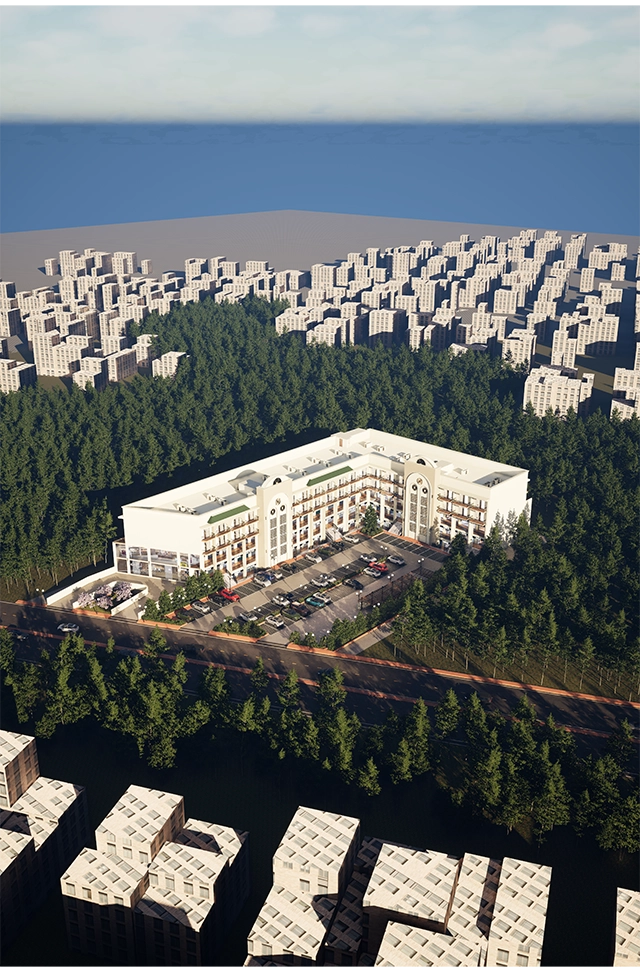
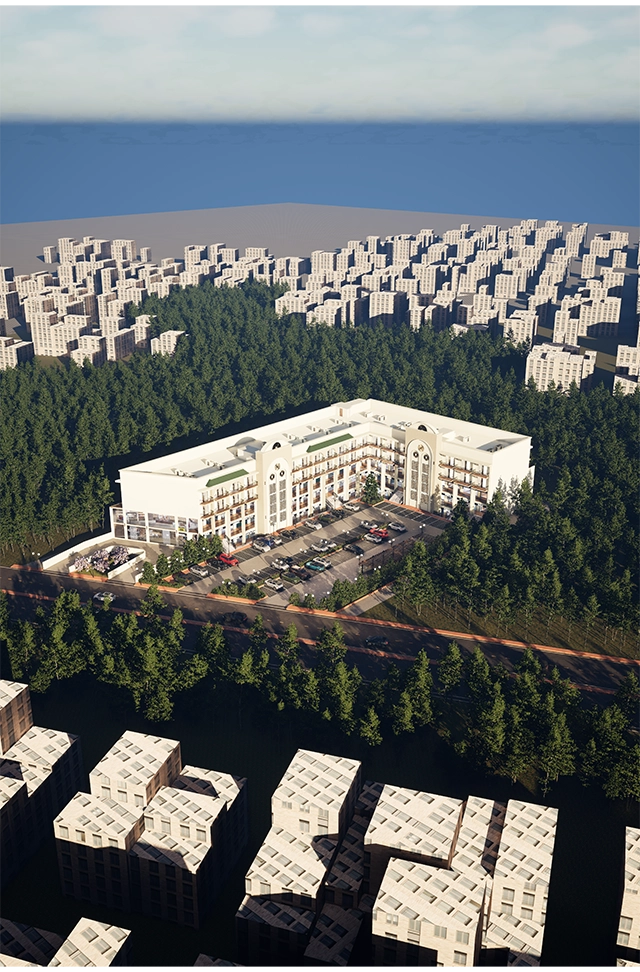
.

diff --git a/index.html b/index.html
@@ -613,10 +613,10 @@
                 <svg xmlns="http://www.w3.org/2000/svg" xml:space="preserve" viewBox="0 0 3840 5830">
                     <path id="Tower_B" data-link="Tower_B.html" data-name="Tower_B"
                         data-img="images/Thumbnail/Tower_B.jpg"
-                        d="m3192.22 2986.46-4.04 47.99-10.65 126.37v.67l-2.67-3.67s-1-4.25-1.25-5-3.58-2.5-3.58-2.5l-1.17-8.67-5.69-2.03s-.78-2.77-.78-3.77-2.45-4.89-3.56-8.11c-1.11-3.23-3.33-2.56-4.11-3.12-.78-.55-2-4.11-2.11-5.11s1-3.33 1.67-5.44c.66-2.11 3.78-4.33 3.78-4.33s-4.34-4.34-5.34-5.89c-.49-.77-.64-.94-.66-.97.01.01.04.01 0-.14-.12-.45-1.12-2-.89-3 .22-1-.67-5.67-.67-5.67l-1.33-3.11 2-7-5.11-1s-4.78 2.89-5.45 1.44c-.67-1.44-1.67-1.78-1.67-1.78l.78-3.66 4.67-9.34-4.45-2.77-2.55-4.89-3.67 6.66s-1.66 2.45-2 2.89c-.33.45-1.55 5.34-1.55 5.34s-1.23-.78-1.78-1.11c-.56-.34-2.33.33-2.33.33l-2.45 5-4.11 3.55-4.78 3-.11 7.45 3.22 6.11-3.11 5.78-4 1.22 3 5.67-1.11 2.22s-4 4.78-4.33 5.55c-.34.78 6.66.12 7.44 0l-1.55 6-5.67 2.78-1.67 7.22-9 3.34h-1.77s-7.67-3.11-8-3.11-7-1.11-7-1.11l-2.67 4.55 10.67 1.89-1.78 8.56-.67 6.55 8.45 2.78 8.77 5.11-2.44 6.22s-2.45-.11-2.78-.11-5.55 1.33-5.55 1.33l-5.89 2.89-7.89-3.66-4.22 4.66-5.12 2.67-21.55 17.89s3.11.11 4.89.11 8.33 3.67 8.33 3.67 10.45 3.89 12.11 4.11c1.67.22 8.56 1.66 11 1.66s6.11 1.89 6.11 1.89l10.56 10.56.78 7.33-1.78 3.89-2.89.78s-3.33-1.56-3.89-2.78c-.55-1.22.33-3 .67-3.55.33-.56-1.89-5.23-1.89-5.23l-2.45.78-.11-3.67s-2.22-3.11-2.55-3.11-4.11-.44-4.11-.44l-1 4.33s-3.34 5.11-3.56 5.45c-.22.33-.89 7.44-.89 7.44s2.56 2.45 4.11 2.45 5.45.88 5.89 1c.45.11 6.11 3.44 6.45 3.44s8.55 1.22 8.55 1.22l2.45 5.89-5 3.67s-5.89-2.67-8.56-4.34c-2.67-1.66-2.55.78-2.55.78l-2.23 2.78s-2.44 2.56-2.89 2.78c-.44.22 0 4.66 0 5.44s-2.22 5.22-2.22 5.22l-8.44 6.34-43.34 22.72s-1.5-.5-3-1.83c-1.5-1.34-4.83 2.16-5.33 2.5-.5.33-1.17 7.83-1.17 7.83s-4.66-2.17-8.33-4.33c-3.67-2.17 0-4.5 0-4.5l1.83-3.84s-1.33-5.33-4.5-6.66c-3.16-1.34-1.83-1.17-5.5-4-3.66-2.84-1-3.34-1-3.34s3.5-.33 6.17-.83 1.83-4.83 1.83-5.5-3.5-1.83-3.5-1.83-1.5-2-1.16-4.67c.33-2.67.33-1.83 1-2.5.66-.67 6.83-.33 7.83-.67 1-.33 2.33-7.33 2.33-7.33l-4-4s-.5-1-.66-1.5c-.17-.5-4.84-2.67-6.17-4s-4.5.83-5.83 1.5c-1.34.67-2.34 2-3.67 3.17-1.33 1.16-2.59 3-2.59 3s-4.08-.17-4.74-.34c-.67-.16-1.84-.66-1.84-.66s-3.66-4.34-2.66-5.34-.5-.83-.5-.83l.33-2s.33-2.5.67-3c.33-.5 2.5-2.67 2.83-4s-1.17-3.67-1.17-6.33 1-2.84 1.34-4.17c.33-1.33 1-3 1.33-3.83.33-.84.83-2.84.83-2.84l1.17-5.83.33-6.67s.34-2.16.34-3.33v-8.5c0-1.67.16-1.5.16-2.83s.67-5.84 1-7c.34-1.17 0-1 .34-2.17.33-1.17 0-3 .16-4.17.17-1.16 0-2.33 0-4.33s-5.16-6.17-7.16-7.67-1.67-.16-2.5-.83c-.84-.67.16-2 .16-3.33s.84-7.34.84-10.67-3.34-9-3.34-9-1.5 4.83-1.66 6.33c-.17 1.5-2.17 8-2.17 8l-1.67 3.67-.83 3.17-3.17 2.66-3 .84s-3.33 2.83-4.33 3.5c-1 .66-2.33 2.16-3.67 3.16-1.33 1-4.83 2-5.33 2.5s1.5.17 1.5.17l2.17 1.83s.83 4.5.83 5.17-3.33 3-4.17 3.5c-.83.5-1.5 1.83-2.5 3.67-1 1.83-2.16 4.5-2.5 5.83-.33 1.33 0 2 0 2l.17 3.83 1 6.34v3.66l-1.17 1.5-1 4.17-5.66 3.67-1 2.33-1.34 4.83-3.83-.5-2.5-4v-3.83l-5.17-.33s-5-4.34-5.66-4.34 0 2.84 0 2.84l1 6.5v7l-9.89 5.94s-4-3.55-5.11-3.78c-1.11-.22-5.56 6.67-5.56 6.67l-.22 3.78 3.11 9.11s-2 .22-3.11.22-3.11 5.56-3.11 5.56l6.22 2v4l-6.44 2v7.55h-.67c-.67 0-4.67.67-5.11.89-.45.22-3.56 6.22-3.56 6.22l3.56 1.56s-2.22 2.67-3.33 4c-1.12 1.33.22 1.55 0 2.67-.23 1.11-1.56.88-1.56.88l-3.56-1.11-2.88 4-3.12 1.56 1.78 2.89v4.66l-3.55-1.11-3.07 2.45-2.04 1.33s1.55 4.22 2 5.33c.44 1.12-2.28.67-2.28.67l-1.28 3.33s0 1.34.89 1.78c.89.45 0 2.22 0 2.22l-1.56.89s-2.22 2.67-2.22 3.34.89.89 1.11 2-3.33 1.55-4.66 1.77c-1.34.23-3.56.23-3.56.23l-1.56 1.33s-1.33 2.44-2 3.33c-.66.89-4.66 1.56-4.66 1.56l-4 3.11h-4.89l-2-1.11s-1.56-1.56-2-3.11c-.45-1.56-1.33-3.56-1.33-6s-3.56-6.89-4-9.34c-.45-2.44-6.45-5.11-8.23-5.11s-5.55 2.67-6.66 3.56-6.45 9.78-6.45 9.78l-4.22 2.66-4.22-.44s-6.45-3.33-6.89-5.11c-.45-1.78.67-7.34.67-7.34l4-3.77s.66-6.23 0-6.89c-.67-.67-8.23.89-8.23.89l-4.22-7.56-1.33-2.22 1.11-8.89-2-.67.67-6.89 2.66-3.77s-3.33-4.67-3.78-6.45c-.44-1.78 2.89-2.44 2.89-2.44l6-4.22s-7.11-3.34-7.77-3.34-7.34-1.55-7.34-1.55-.44-4.67 0-5.34c.45-.66 2.45-2.44 2.45-2.44s1.55-3.78 2.22-4.67 2.89 0 2.89 0l3.11-2.89 2.22-7.11-4.67-1.78-3.33-2.44-5.55-3.56 2.44-3.33 6.44-3.11-4.22-5.78-2.66 1.78s-2-.67-2.89-.67-4.89-2.22-7.34-3.11c-2.44-.89-2.66-.44-3.33-.44s-1.56-.45-1.56-.45l-3.6-3.55s-1.28-2-1.28-3.11 0-5.78.88-7.34c.89-1.55 0-3.77 0-3.77l-7.33-5.78-4.44 4.89s-1.78 4.66-1.56 5.33 0 1.11 0 3.33-1.33 5.34-1.33 5.34l-2.45 5.55-8-2-2.66 1.56v5.11l-1.78 1.78-7.11-2-2.89 2.89s6 3.33 7.33 3.33h3.56l2 6.89-2.67 3.78s-6.22-1.78-7.33-2.23c-1.11-.44-7.11-.66-8.31-.66s-1.91-.23-3.47-.23-3.78 2-3.78 2l-.44 5.56s.22 8.44.44 11.11.67 5.33.67 6v14c0 2 0 5.33-.22 7.11-.23 1.78-7.11 4.56-7.11 4.89s2.22 7.22 2.22 7.22.66 5.11 2 6.34c1.33 1.22 9.33 4.77 9.66 5 .34.22-3.22 2.77-3.22 2.77l-2.89.45-6.22-5.67-5 1.89-4.67.78-1.33 3.89-.78 2.55-1.55 4.34-1.22 2.22 1.22 6.89v4l-110.42-42.39 2.5-5.67-11.75-4.33-.67 1-6.16-.25v-5l-11.75-4.08v-1.84l-45.42-15.83-7.75-1.75-2.75-.83-7.33-1.34v-2.16l-40.59-14.59-5.41.17-14.17-5.08-.75 1.25-2 1.41-4.75-.91v-2.5l-14-5.42-9.42 5.17-9.08-1.84-71.39-26.5s-16.33-6.26-21.42-8.4l1.42-4.26-2.55-.67-2.45.33s-1.55-1-1.78-1.44c-.22-.45-2.22-2.78-2.22-2.78s-2.44-2.22-3.66-2.78c-1.23-.55-4.45-2.11-4.45-2.11s-2.22-1-2.89-.89c-.66.11-2.33.22-2.33.22l-2.22.89-13.11-4-2.23-1.55.11-1.45 2.62-2.39s3.5-3.16 3.5-3.33-.23-3.11-.23-3.11-.89-.44-1.05-.67c-.17-.22-1.22-1.83-1.39-2.5-.17-.66-2.72-3.77-2.72-3.77l2.58-2.59s-1.5-1.91-2.58-2.41c-1.09-.5-1.59-.17-1.59-.17l-.5-.67v-1.33c0-.33.25-1.42.25-1.42l.5-.58c.5-.58 1.5-1.25 2.42-2s.5-.67.67-1.92c.16-1.25-.25-1.41-.34-1.91-.08-.5-.91-.59-1.83-1.17s-1.58-.67-1.83-.83c-.25-.17-1.42-1.5-1.42-2.92s0-.92.17-1.5c.16-.58.33-3.25.66-3.67 0 0 1.34-.5 2.59-1.33s1.91-.58 2.83-1.17c.92-.58 1.5-.75 2.17-1.08.66-.33 1.33-1.17 1.33-1.17v-.91c0-.92-.75-1.59-1.33-2.42-.59-.83-1.59-.92-2.34-1.75s-1.33-2.17-1.41-2.5c-.09-.33-4.67-4.25-4.67-4.25l-.25-.5s.08-1 .5-1.75.42-.58.67-.92c.25-.33.75-1 1.08-1.41.33-.42.42-.5.75-1.42s0-1.25 0-2-.17-1.5-.33-3.92c-.17-2.41-.92-2-1.09-2.58-.16-.58-2.5-1.42-3.66-1.92-1.17-.5-.84 0-1.17 0s-2.17 1-3.67 1.59c-1.5.58-1.91.58-2.66.58s-2.84.08-4-.08c-1.17-.17 0-1.09.08-1.67s2.83-4.42 3.08-4.58c.25-.17 1.75-.84 2.5-1.25.75-.42 2-.67 3.42-1.67s1.5-2 1.92-3.17c.41-1.16.58-2.83.58-3.16s-.83-.67-1.25-1c-.42-.34-1.25-.17-1.25-.17l-1.25-.17s-.92-1.08-2.08-2.91c-1.17-1.84-1.17-.67-1.17-.67s-1.5 1.42-1.83 1.58c-.34.17-2.09.5-2.59.5s-1.5-1-1.5-1 .09-.83.09-1.16.33-2 .91-3.67c.59-1.67.34-1.08.59-1.42.25-.33.66-.66.66-.66s1.75-.25 2.42-.67l.67-.42s-.75-2.25-.84-2.58c-.08-.33-.41-.42-1.16-.92s-1.17-.75-1.42-.91c-.25-.17-.92-.92-1.08-1.25-.17-.34-.34-.92-.84-2.17s.25-.33 0-.75-1.16-1.25-1.16-1.25l-1.09-.83-2.08-.25s-1.08-.5-1.42-.75c-.33-.25-1.75 1.16-2.33 1.5-.58.33-1.83.66-2.58.66s-.42-.25-.59-.83c-.16-.58 0 0-.83-3.5s.08-1.58.08-1.58 1.92-1.67 2.34-2.17c.41-.5 0-.58.58-2s.58-.42 1.92-1.67c1.33-1.25-1.84-2.75-2.25-2.75s-1.09.5-1.5.67c-.42.17-2.42 1.25-3.17 1.75s-2.17-.08-2.17-.08h-1.25s0-1.17.09-1.75c.08-.59.66-1.5.66-1.5s.34-.92 1.25-2.5c.92-1.59 1.09-2.09 1.09-2.59s-2-1.83-2.34-2c-.33-.16-1.83.17-1.83.17l-1.17-1.83v-5l-4 .66-.66 4s-1.84 3-2 3.42c-.17.42-1.59 2.42-1.59 2.42l-2.33.75-1.17-1-3.58-.42-.92 2.75-.64 2.56 2.23-98.81 8.33-367.96.36-.12 955.11 253-.22 5.11-4.22 2.77-2.78 22.78h14.44l-1.66 31.45-15.34 6.66-2.55 39.56h6.44l-.33 23-9 4.44-3 43.78 31.67-16.33z" />
+                        d="m3209.21 2788.05-9.13 177.36v.67l-2.72-3.67s-1.02-4.25-1.27-5-3.64-2.5-3.64-2.5l-1.19-8.67-5.79-2.03s-.79-2.77-.79-3.77-2.49-4.89-3.62-8.11c-1.13-3.23-3.39-2.56-4.18-3.12-.79-.55-2.04-4.11-2.15-5.11s1.02-3.33 1.7-5.44c.67-2.11 3.85-4.33 3.85-4.33s-4.42-4.34-5.43-5.89c-.5-.77-.65-.94-.67-.97.01.01.04.01 0-.14-.12-.45-1.14-2-.91-3 .22-1-.68-5.67-.68-5.67l-1.35-3.11 2.04-7-5.2-1s-4.86 2.89-5.55 1.44c-.68-1.44-1.7-1.78-1.7-1.78l.79-3.66 4.75-9.34-4.53-2.77-2.59-4.89-3.73 6.66s-1.69 2.45-2.04 2.89c-.34.45-1.58 5.34-1.58 5.34s-1.25-.78-1.81-1.11c-.57-.34-2.37.33-2.37.33l-2.49 5-4.18 3.55-4.86 3-.11 7.45 3.28 6.11-3.16 5.78-4.07 1.22 3.05 5.67-1.13 2.22s-4.07 4.78-4.41 5.55c-.35.78 6.78.12 7.57 0l-1.58 6-5.77 2.78-1.7 7.22-9.16 3.34h-1.8s-7.8-3.11-8.14-3.11-7.12-1.11-7.12-1.11l-2.72 4.55 10.86 1.89-1.81 8.56-.68 6.55 8.6 2.78 8.92 5.11-2.48 6.22s-2.49-.11-2.83-.11-5.65 1.33-5.65 1.33l-5.99 2.89-8.03-3.66-4.29 4.66-5.21 2.67-21.93 17.89s3.16.11 4.98.11 8.48 3.67 8.48 3.67 10.63 3.89 12.32 4.11c1.7.22 8.71 1.66 11.19 1.66s6.22 1.89 6.22 1.89l10.75 10.56.79 7.33-1.81 3.89-2.94.78s-3.39-1.56-3.96-2.78c-.56-1.22.34-3 .68-3.55.34-.56-1.92-5.23-1.92-5.23l-2.49.78-.11-3.67s-2.26-3.11-2.59-3.11-4.18-.44-4.18-.44l-1.02 4.33s-3.4 5.11-3.62 5.45c-.22.33-.91 7.44-.91 7.44s2.61 2.45 4.18 2.45 5.55.88 5.99 1c.46.11 6.22 3.44 6.56 3.44s8.7 1.22 8.7 1.22l2.49 5.89-5.09 3.67s-5.99-2.67-8.71-4.34c-2.72-1.66-2.59.78-2.59.78l-2.27 2.78s-2.48 2.56-2.94 2.78c-.45.22 0 4.66 0 5.44s-2.26 5.22-2.26 5.22l-8.59 6.34-44.1 22.72s-1.53-.5-3.05-1.83c-1.53-1.34-4.92 2.16-5.42 2.5-.51.33-1.19 7.83-1.19 7.83s-4.74-2.17-8.48-4.33c-3.73-2.17 0-4.5 0-4.5l1.86-3.84s-1.35-5.33-4.58-6.66c-3.22-1.34-1.86-1.17-5.6-4-3.72-2.84-1.02-3.34-1.02-3.34s3.56-.33 6.28-.83 1.86-4.83 1.86-5.5-3.56-1.83-3.56-1.83-1.53-2-1.18-4.67c.34-2.67.34-1.83 1.02-2.5.67-.67 6.95-.33 7.97-.67 1.02-.33 2.37-7.33 2.37-7.33l-4.07-4s-.51-1-.67-1.5c-.17-.5-4.93-2.67-6.28-4s-4.58.83-5.93 1.5c-1.36.67-2.38 2-3.73 3.17-1.35 1.16-2.64 3-2.64 3s-4.15-.17-4.82-.34c-.68-.16-1.87-.66-1.87-.66s-3.72-4.34-2.71-5.34-.51-.83-.51-.83l.34-2s.34-2.5.68-3 2.54-2.67 2.88-4-5.24-9.56-5.24-12.22 1.02-2.84 1.36-4.17 1.02-3 1.35-3.83c.34-.84.84-2.84.84-2.84l1.19-5.83.34-6.67s.35-2.16.35-3.33v-8.5c0-1.67.16-1.5.16-2.83s.68-5.84 1.02-7c.35-1.17 0-1 .35-2.17.34-1.17 0-3 .16-4.17.17-1.16 0-2.33 0-4.33s-5.25-6.17-7.29-7.67-1.7-.16-2.54-.83c-.85-.67.16-2 .16-3.33s.85-7.34.85-10.67-3.4-9-3.4-9-1.53 4.83-1.69 6.33c-.17 1.5-2.21 8-2.21 8l-1.7 3.67-.84 3.17-3.23 2.66-3.05.84s-3.39 2.83-4.41 3.5c-1.02.66-2.37 2.16-3.73 3.16-1.35 1-4.92 2-5.42 2.5s1.53.17 1.53.17l2.21 1.83s.84 4.5.84 5.17-3.39 3-4.24 3.5c-.84.5-1.53 1.83-2.54 3.67-1.02 1.83-2.2 4.5-2.54 5.83s0 2 0 2l.17 3.83 1.02 6.34v3.66l-1.19 1.5-1.02 4.17-5.76 3.67-1.02 2.33-1.36 4.83.16 5.39-2.54-4v-3.83l-5.26-.33s-5.09-4.34-5.76-4.34 0 2.84 0 2.84l1.02 6.5v7l-10.06 5.94s-4.07-3.55-5.2-3.78c-1.13-.22-5.66 6.67-5.66 6.67l-.22 3.78 3.16 9.11s-2.04.22-3.16.22-3.16 5.56-3.16 5.56l6.33 2v4l-6.55 2v7.55h-.68c-.68 0-4.75.67-5.2.89-.46.22-3.62 6.22-3.62 6.22l3.62 1.56s-2.26 2.67-3.39 4c-1.14 1.33.22 1.55 0 2.67-.23 1.11-1.59.88-1.59.88l-3.62-1.11-2.93 4-3.17 1.56 1.81 2.89v4.66l-3.61-1.11-3.12 2.45-2.08 1.33s1.58 4.22 2.04 5.33c.45 1.12-2.32.67-2.32.67l-1.3 3.33s0 1.34.91 1.78c.91.45 0 2.22 0 2.22l-1.59.89s-2.26 2.67-2.26 3.34.91.89 1.13 2-3.39 1.55-4.74 1.77c-1.36.23-3.62.23-3.62.23l-1.59 1.33s-1.35 2.44-2.04 3.33c-.67.89-4.74 1.56-4.74 1.56l-4.07 3.11h-4.98l-2.04-1.11s-1.59-1.56-2.04-3.11c-.46-1.56-1.35-3.56-1.35-6s-3.62-6.89-4.07-9.34c-.46-2.44-6.56-5.11-8.37-5.11s-5.65 2.67-6.78 3.56-6.56 9.78-6.56 9.78l-4.29 2.66-4.29-.44s-6.56-3.33-7.01-5.11c-.46-1.78.68-7.34.68-7.34l4.07-3.77s.67-6.23 0-6.89-8.37.89-8.37.89l-4.29-7.56-1.35-2.22 1.13-8.89-2.04-.67.68-6.89 2.71-3.77s-3.39-4.67-3.85-6.45c-.45-1.78 2.94-2.44 2.94-2.44l6.11-4.22s-7.24-3.34-7.91-3.34-7.47-1.55-7.47-1.55-.45-4.67 0-5.34c.46-.66 2.49-2.44 2.49-2.44s1.58-3.78 2.26-4.67 2.94 0 2.94 0l3.16-2.89 2.26-7.11-4.75-1.78-3.39-2.44-5.65-3.56 2.48-3.33 6.55-3.11-4.29-5.78-2.71 1.78s-2.04-.67-2.94-.67-4.98-2.22-7.47-3.11c-2.48-.89-2.71-.44-3.39-.44s-1.59-.45-1.59-.45l-3.66-3.55s-1.3-2-1.3-3.11 0-5.78.9-7.34c.91-1.55 0-3.77 0-3.77l-7.46-5.78-4.52 4.89s-1.81 4.66-1.59 5.33 0 1.11 0 3.33-1.35 5.34-1.35 5.34l-2.49 5.55-8.14-2-2.71 1.56v5.11l-1.81 1.78-7.24-2-2.94 2.89s6.11 3.33 7.46 3.33h3.62l2.04 6.89-2.72 3.78s-6.33-1.78-7.46-2.23c-1.13-.44-7.24-.66-8.46-.66s-1.94-.23-3.53-.23-3.85 2-3.85 2l-.45 5.56s.22 8.44.45 11.11.68 5.33.68 6v14c0 2 0 5.33-.22 7.11-.23 1.78-7.24 4.56-7.24 4.89s2.26 7.22 2.26 7.22.67 5.11 2.04 6.34c1.35 1.22 9.49 4.77 9.83 5 .35.22-3.28 2.77-3.28 2.77l-2.94.45-6.33-5.67-5.09 1.89-4.75.78-1.35 3.89-.79 2.55-1.58 4.34-1.24 2.22 1.24 6.89v4l-111.64-29.52 2.54-5.67-11.96-4.33-.68 1-6.27-.25v-5l-11.96-4.08v-1.84l-46.22-15.83-7.89-1.75-2.8-.83-7.46-1.34v-2.16l-41.3-14.59-5.51.17-14.42-5.08-.76 1.25-2.04 1.41-4.83-.91v-2.5l-14.25-5.42-9.59 5.17-9.24-1.84-72.65-26.5s-16.62-6.26-21.8-8.4l1.44-4.26-2.59-.67-2.49.33s-1.58-1-1.81-1.44c-.22-.45-2.26-2.78-2.26-2.78s-2.48-2.22-3.72-2.78c-1.25-.55-4.53-2.11-4.53-2.11s-2.26-1-2.94-.89c-.67.11-2.37.22-2.37.22l-2.26.89-13.34-4-2.27-1.55.11-1.45 2.67-2.39s3.56-3.16 3.56-3.33-.23-3.11-.23-3.11-.91-.44-1.07-.67c-.17-.22-1.24-1.83-1.41-2.5-.17-.66-2.77-3.77-2.77-3.77l2.63-2.59s-1.53-1.91-2.63-2.41c-1.11-.5-1.62-.17-1.62-.17l-.51-.67v-1.33c0-.33.25-1.42.25-1.42l.51-.58c.51-.58 1.53-1.25 2.46-2s.51-.67.68-1.92c.16-1.25-.25-1.41-.35-1.91-.08-.5-.93-.59-1.86-1.17s-1.61-.67-1.86-.83c-.25-.17-1.44-1.5-1.44-2.92s0-.92.17-1.5c.16-.58.34-3.25.67-3.67 0 0 1.36-.5 2.64-1.33s1.94-.58 2.88-1.17c.94-.58 1.53-.75 2.21-1.08.67-.33 1.35-1.17 1.35-1.17v-.91c0-.92-.76-1.59-1.35-2.42-.6-.83-1.62-.92-2.38-1.75s-1.35-2.17-1.43-2.5c-.09-.33-4.75-4.25-4.75-4.25l-.25-.5s.08-1 .51-1.75.43-.58.68-.92c.25-.33.76-1 1.1-1.41.34-.42.43-.5.76-1.42s0-1.25 0-2-.17-1.5-.34-3.92c-.17-2.41-.94-2-1.11-2.58-.16-.58-2.54-1.42-3.72-1.92-1.19-.5-.85 0-1.19 0s-2.21 1-3.73 1.59c-1.53.58-1.94.58-2.71.58s-2.89.08-4.07-.08c-1.19-.17 0-1.09.08-1.67s2.88-4.42 3.13-4.58c.25-.17 1.78-.84 2.54-1.25.76-.42 2.04-.67 3.48-1.67s1.53-2 1.95-3.17c.42-1.16.59-2.83.59-3.16s-.84-.67-1.27-1c-.43-.34-1.27-.17-1.27-.17l-1.27-.17s-.94-1.08-2.12-2.91c-1.19-1.84-1.19-.67-1.19-.67s-1.53 1.42-1.86 1.58c-.35.17-2.13.5-2.64.5s-1.53-1-1.53-1 .09-.83.09-1.16.34-2 .93-3.67c.6-1.67.35-1.08.6-1.42.25-.33.67-.66.67-.66s1.78-.25 2.46-.67l.68-.42s-.76-2.25-.85-2.58c-.08-.33-.42-.42-1.18-.92s-1.19-.75-1.44-.91c-.25-.17-.94-.92-1.1-1.25-.17-.34-.35-.92-.85-2.17s.25-.33 0-.75-1.18-1.25-1.18-1.25l-1.11-.83-2.12-.25s-1.1-.5-1.44-.75-1.78 1.16-2.37 1.5c-.59.33-1.86.66-2.63.66s-.43-.25-.6-.83c-.16-.58 0 0-.84-3.5s.08-1.58.08-1.58 1.95-1.67 2.38-2.17c.42-.5 0-.58.59-2s.59-.42 1.95-1.67c1.35-1.25-1.87-2.75-2.29-2.75s-1.11.5-1.53.67c-.43.17-2.46 1.25-3.23 1.75s-2.21-.08-2.21-.08h-1.27s0-1.17.09-1.75c.08-.59.67-1.5.67-1.5s.35-.92 1.27-2.5c.94-1.59 1.11-2.09 1.11-2.59s-2.04-1.83-2.38-2c-.34-.16-1.86.17-1.86.17l-1.19-1.83v-5l-4.07.66-.67 4s-1.87 3-2.04 3.42-1.62 2.42-1.62 2.42l-2.37.75-1.19-1-3.64-.42-.94 2.75-.65 2.56 2.27-98.81 7.93-363.01.37-.12 965.91 232.18-.22 5.11-4.29 2.77-2.83 22.78h14.69l-1.69 31.45-15.61 6.66-2.59 39.56h6.55l-.34 23-9.16 4.44-3.05 43.78 32.23-16.33 4.63 2Z" />
                     <path id="Tower_A" data-link="Tower_A.html" data-name="Tower_A"
                         data-img="images/Thumbnail/Tower_A.jpg"
-                        d="M2206.08 3038.9c-.25.17-1 2.09-1 2.09l1.17 1 1.74 1.86.51.55v4.09s-.26.06-.62.14c-.69.15-1.78.39-2.21.44-.67.08-2 1.08-2.34 1.17-.33.08-2.33 1.08-2.33 1.08s-1.67.58-2.92.92c-1.25.33-2.5 1.91-2.83 2.16s-.25 3.92-.25 3.92l1.33 2.08 1.17 3.92 1.17 5.5 1.27 2.83s-1.44.78-2.33 1-3.89 1.67-3.89 1.67-.94.5-1.28 1.11c-.33.61-.61 2-.61 2s-1.5 2.17-1.66 2.44c-.17.28-2.45 1.12-3.17 1.28-.72.17-1 1.11-1 1.11l3.56 2.84 1.11 1.55-2.11 2.5-.17 3.5 1.83 2.56 1.17 1.66s.72 3.17 1.05 4c.34.84 1.78 2.12 1.95 2.23s6.33 4.05 6.33 4.05l.78 1.89-1.22 2.72-4.84-1.22-1.38-.5-3.95-6.44-1.22-2.06-4.56 1.06-5.66-3.39-3.56.72s.56 4.67.45 4.94c-.12.28-1.12 1.84-1.12 1.84l-.05 3 4.72 2.11 3 2.42-.08 1.66-.59 2.92s-3.08 0-3.66.08c-.59.09-1.09 1.5-1.09 1.5v3.34c0 .25 1.34 1.66 1.34 1.66s2.33.67 3.33.92 1.75 2.75 1.75 2.75l1.5 2.08h2.58c1.42 0 2.5.42 3.09.5.58.09 1.66.17 1.66.17s2.34-.5 2.92-.83c.58-.34 2.08-.25 2.08-.25l1.42 1.08 1.92 2s.5 0 2.33-.67c1.83-.66 1.67-.5 2-.5.2 0 .81 1.58 1.28 2.85.3.85.55 1.57.55 1.57s-.24.02-.59.04c-.43.02-1.02.04-1.57.04-1 0-4.84-.16-6.09-.16s-3.66-.75-4.33-.75-2.42.41-4.33 1.33c-1.92.92-3.42 1.25-3.42 1.25l-1.92 1.17-.16 1.75h-1.5c-.25 0-1.59 0-2.25.16-.67.17 0 .67 0 .67l-.5 1.75-2.09.42s-1.66-1.17-2.16-1.17-1.42 1.92-1.42 2.33 1.58 2.84 1.58 2.84 1.75-.59 2.67-1c.92-.42 2.67-.59 2.67-.59s3-1.75 3.41-1.83c.42-.08.84.08.84.08l1.16 1.92-3.25 1.75.5 2.25 1.25 2.25 1 1.58 1.84.92h3.5v1.42s-3.59.83-4.42.75c-.83-.09-3.58 1.33-4.42 1.33s-3.58.92-3.58.92l-4.42.16-1 1.25-2.5 3.09-4.33 2.76-78.11 36.17-3 .27-4 .12s-4.67 1.27-4.83 1.33c-.17.05-7.56 1.94-7.56 1.94l-10.17 7.28-3.66 4.75L1766 3349.44l-7.89-4.22-10.17 3.72.45 4-4.78.12-3.28-1.95-12.72 5.06-1 2.5-4-.34-.89-1.61-38 16.56.39 3.28-15.22 7.61-4.36-1.23-38.09 16-.58 4.84-2.75-.34-6.17 1.25-4.58 4.25-16.05 13.84-8.84 3.72s-4.94-.89-6.94-1.44c-2-.56-7.28-1.95-7.72-2-.45-.06-6.17 1-6.17 1s-11.39 4.22-11.83 4.38c-.45.17-3.06 1.62-3.06 1.62s-5.5 3.11-5.72 3.27c-.22.17-.72 2.67-.72 2.67l-3.95 7-2.94 8.39-172.75 80-6.5-1.92-2.34-.83s-2.33-3.25-2.66-4.83c-.34-1.59.41-4.67.41-4.67s.92-4.75.5-5.58c-.41-.84-1.66-.67-5.33-2.67-3.55-1.93-.24-.52-.01-.43-.05-.15-.5-1.3-.57-2.24-.09-1-.42-1.5-.42-2.33s-2-2.83-4.5-4.75c-2.19-1.68-2.08-.41-2.02-.08-.15-.42-.81-2.53-.73-3.5.08-1.09 1.08-1.84 2.42-2.5 1.33-.67 2.58-.59 2.91-.75.34-.17-.58-2.59-.66-3.34-.09-.75-3.59-3.75-2.84-4.16.75-.42 2.34-1 2.34-1l.5-3-.9-1.59-1.27-.33-.08-4.58s-2.75-1.09-3-1.09-1.84-2.08-1.84-2.08l-2.58-.08-3.33.08-.25-1.75.5-.58s3.33-1.17 3.91-1.5c.59-.34 4.92-2.09 4.92-2.09s-.83-1.41-1.17-1.58c-.33-.17-3.75-1.08-4.5-1.17-.75-.08-1.75-.16-1.75-.16l.09-2.34s4.66-2.5 5.5-2.91c.83-.42 2.91-2.67 4-3.17 1.08-.5.83-3 .83-3l-2.42-.92-6.66-.5-2.09-.41-2.5-2.34.25-1.41s.75-1.75 1.09-2.25c.33-.5.83-1.09.83-1.09s-.92-3.41-1-4.16-.5-1.09-.67-1.34c-.16-.25-.83-1.91-.83-1.91s-3.33.66-3.58.41-1.59-2.25-1.59-2.25.25-1.5.42-2 .08-2.58.08-2.58v-1.42c0-.5-1.08-3.75-1.16-4-.09-.25-1.17 1.59-1.17 1.59l-1.92 1.83-1.5-2.83-.91-2.67-1.09-1-2.25-.83-2.83 3.83-2.42 2.5s.09-1.42 0-1.92c-.08-.5-1.41-.75-1.41-.75l-2.92.59v-3.09c0-1.75-1.25-2.5-1.25-2.5s-2.92 3.59-3.08 3.84c-.17.25-2.34 1.66-2.34 1.66l-.66-.83v-3.58c0-.92-3.92-2.5-3.92-2.5l-3.17-.84 1.67 6-.83 3.34v2.5l-3.42 1.08-1.08 2.83-3.5 1.34-3.5.5-1 1.66-1.75 3.42-.25 4.17 4.66 4.16s-.41 4-.41 4.42-3 2.17-3 2.17l-.17 4.58-2.67 3.5 1.92 4.33 2.25 6.59-6.83 3.25-4.42 3.5-2.42-.59.67-5.08.08-2.33.17-1.84 2.92-.33.75-3.92-1.59-3.66-1.83-2.67-1.17-.08-1.08 2.91-1.17 2.5-2.08.75-4.36-.25-4.56-4.86s.28-1.17.61-1.61c.34-.44 2.39-3.11 2.39-3.11s1.61-4.06 1.56-4.61c-.06-.56-1.89.55-1.89.55s-1.17-4.27-1.11-5.11c.05-.83 2.11-4.05 2.33-4.55s-.28-4.39-.28-4.39-3.72 3.44-3.88 3.78c-.17.33-.56 4.94-.56 4.94s-8.61-6-9.78-6.94c-1.16-.95.28 4.38.28 4.38l-6-1.66v-4.84l-3.39-3.55-1.5-3.08-2.33 3.41-2.84 2.59-2-2.67.75-1.58v-5.25s-2.58-2-3.16-2.25c-.59-.25-3 1.25-3.42 1.33s-3.08-.25-3.08-.25l-2.5-5.42-3.42-3.33-2.33 1.08-3 3.25-1 4.75-2.25 4.59-2.09 1-.91 1.08-.84 2.83v7.67l-.66 1.17-.17 4.5.83 5.41-.75 2.34-1.66 4.16-3.5.67-3.42-4.25-3.83 1.83-.92 3.92-.75 4.92-1.5.08s-5.17 4.08-5.17 3.75-.91-3.75-.91-4.08-.5-1.67-.5-1.67-2.92-3.92-2.92-4.17 2.08-5.16 2.08-5.5-9.58-3.5-9.58-3.5v-2.5l-4-3.75s-3.58 1.59-4.25 1.67-2.58 1.92-2.58 1.92l-1.17 2.5-1.5 1.08-4.42 3.58-.41 1.84-5.42-1.09-2.25-3.16-1.58.75-3.25 2.66-4.75 1.5-.92-.16s-.83-1.92-1-2.59c-.17-.66-2.5-.25-2.5-.25l.08 3-.75 5-.5 1.84s1.75 3.08 2.09 3.25c.33.16.66.5.66.5l-.66 3.08-.67.33v6l-1.58 3.17-1.92-2.75-2.42 2.92v6.58l-5.08-.92.67 3.59.5 2.41-2.25-.83-4.59 1.67-420.66-62-13.4-184.62-1.69-23.22 73-26-6.66-88.5-31.06-4.44-.89-9.84 29.95-10.77-2.78-41.61-7.83-1.62.27-5.94 1256.05-420.04-.5-5.95 1-3.16 59.34-19.95 21.5 6.09 87.34-29.06 47.66 13.04.06-4.18 18.86-6.43-8.33 367.96-2.23 98.83-.36 1.42s-1.5 2.17-1.75 2.33" />
+                        d="M2212.26 2856.37c-.25.17-1.02 2.09-1.02 2.09l1.19 1 1.77 1.86.52.55v4.09s-.26.06-.63.14c-.7.15-1.81.39-2.25.44-.68.08-2.04 1.08-2.38 1.17-.34.08-2.37 1.08-2.37 1.08s-1.7.58-2.97.92c-1.27.33-2.54 1.91-2.88 2.16s-.25 3.92-.25 3.92l1.35 2.08 1.19 3.92 1.19 5.5 1.29 2.83s-1.47.78-2.37 1-3.96 1.67-3.96 1.67-.96.5-1.3 1.11-.62 2-.62 2-1.53 2.17-1.69 2.44c-.17.28-2.49 1.12-3.23 1.28-.73.17-1.02 1.11-1.02 1.11l3.62 2.84 1.13 1.55-2.15 2.5-.17 3.5 1.86 2.56 1.19 1.66s.73 3.17 1.07 4c.35.84 1.81 2.12 1.98 2.23s6.44 4.05 6.44 4.05l.79 1.89-1.24 2.72-4.93-1.22-1.4-.5-4.02-6.44-1.24-2.06-4.64 1.06-5.76-3.39-3.62.72s.57 4.67.46 4.94c-.12.28-1.14 1.84-1.14 1.84l-.05 3 4.8 2.11 3.05 2.42-.08 1.66-.6 2.92s-3.13 0-3.72.08c-.6.09-1.11 1.5-1.11 1.5v3.34c0 .25 1.36 1.66 1.36 1.66s2.37.67 3.39.92 1.78 2.75 1.78 2.75l1.53 2.08h2.63c1.44 0 2.54.42 3.14.5.59.09 1.69.17 1.69.17s2.38-.5 2.97-.83c.59-.34 2.12-.25 2.12-.25l1.44 1.08 1.95 2s.51 0 2.37-.67c1.86-.66 1.7-.5 2.04-.5.2 0 .82 1.58 1.3 2.85.31.85.56 1.57.56 1.57s-.24.02-.6.04c-.44.02-1.04.04-1.6.04-1.02 0-4.93-.16-6.2-.16s-3.72-.75-4.41-.75-2.46.41-4.41 1.33-3.48 1.25-3.48 1.25l-1.95 1.17-.16 1.75h-1.53c-.25 0-1.62 0-2.29.16-.68.17 0 .67 0 .67l-.51 1.75-2.13.42s-1.69-1.17-2.2-1.17-1.44 1.92-1.44 2.33 1.61 2.84 1.61 2.84 1.78-.59 2.72-1c.94-.42 2.72-.59 2.72-.59s3.05-1.75 3.47-1.83c.43-.08.85.08.85.08l1.18 1.92-3.31 1.75.51 2.25 1.27 2.25 1.02 1.58 1.87.92h3.56v1.42s-3.65.83-4.5.75c-.84-.09-3.64 1.33-4.5 1.33s-3.64.92-3.64.92l-4.5.16-1.02 1.25-2.54 3.09-4.41 2.76-82.68 31.48-3.05.27-4.07.12s-4.75 1.27-4.92 1.33c-.17.05-7.69 1.94-7.69 1.94l-10.35 7.28-3.72 4.75-291.39 118.22-8.03-4.22-10.35 3.72.46 4-4.86.12-3.34-1.95-12.94 5.06-1.02 2.5-4.07-.34-.91-1.61-39.63 13.94.4 3.28-15.49 7.61-4.44-1.23-38.76 16-.59 4.84-2.8-.34-34.81 17.38-9.6 4.8c-12.83-6.52-23.17-4.34-31.62 4.44-2.53 2.62-3.55 6.36-2.85 9.93l.51 2.59-25.98 12.98-156.51 68.5-6.61-1.92-2.38-.83s-2.37-3.25-2.71-4.83c-.35-1.59.42-4.67.42-4.67s.94-4.75.51-5.58c-.42-.84-1.69-.67-5.42-2.67-3.61-1.93-.24-.52-.01-.43-.05-.15-.51-1.3-.58-2.24-.09-1-.43-1.5-.43-2.33s-2.04-2.83-4.58-4.75c-2.23-1.68-2.12-.41-2.06-.08-.15-.42-.82-2.53-.74-3.5.08-1.09 1.1-1.84 2.46-2.5 1.35-.67 2.63-.59 2.96-.75.35-.17-.59-2.59-.67-3.34-.09-.75-3.65-3.75-2.89-4.16.76-.42 2.38-1 2.38-1l.51-3-.92-1.59-1.29-.33-.08-4.58s-2.8-1.09-3.05-1.09-1.87-2.08-1.87-2.08l-2.63-.08-3.39.08-.25-1.75.51-.58s3.39-1.17 3.98-1.5c.6-.34 5.01-2.09 5.01-2.09s-.84-1.41-1.19-1.58c-.34-.17-3.82-1.08-4.58-1.17-.76-.08-1.78-.16-1.78-.16l.09-2.34s4.74-2.5 5.6-2.91c.84-.42 2.96-2.67 4.07-3.17 1.1-.5.84-3 .84-3l-2.46-.92-6.78-.5-2.13-.41-2.54-2.34.25-1.41s.76-1.75 1.11-2.25c.34-.5.84-1.09.84-1.09s-.94-3.41-1.02-4.16-.51-1.09-.68-1.34c-.16-.25-.84-1.91-.84-1.91s-3.39.66-3.64.41-1.62-2.25-1.62-2.25.25-1.5.43-2 .08-2.58.08-2.58v-1.42c0-.5-1.1-3.75-1.18-4-.09-.25-1.19 1.59-1.19 1.59l-1.95 1.83-1.53-2.83-.93-2.67-1.11-1-2.29-.83-2.88 3.83-2.46 2.5s.09-1.42 0-1.92c-.08-.5-1.43-.75-1.43-.75l-2.97.59v-3.09c0-1.75-1.27-2.5-1.27-2.5s-2.97 3.59-3.13 3.84c-.17.25-2.38 1.66-2.38 1.66l-.67-.83v-3.58c0-.92-3.99-2.5-3.99-2.5l-3.23-.84 1.7 6-.84 3.34v2.5l-3.48 1.08-1.1 2.83-3.56 1.34-3.56.5-1.02 1.66-1.78 3.42-.25 4.17 4.74 4.16s-.42 4-.42 4.42-3.05 2.17-3.05 2.17l-.17 4.58-2.72 3.5 1.95 4.33 2.29 6.59-6.95 3.25-4.5 3.5-2.46-.59.68-5.08.08-2.33.17-1.84 2.97-.33.76-3.92-1.62-3.66-1.86-2.67-1.19-.08-1.1 2.91-1.19 2.5-2.12.75-4.44-.25-4.64-4.86s.28-1.17.62-1.61c.35-.44 2.43-3.11 2.43-3.11s1.64-4.06 1.59-4.61c-.06-.56-1.92.55-1.92.55s-1.19-4.27-1.13-5.11c.05-.83 2.15-4.05 2.37-4.55s-.28-4.39-.28-4.39-3.79 3.44-3.95 3.78c-.17.33-.57 4.94-.57 4.94s-8.76-6-9.95-6.94c-1.18-.95.28 4.38.28 4.38l-6.11-1.66v-4.84l-3.45-3.55-1.53-3.08-2.37 3.41-2.89 2.59-2.04-2.67.76-1.58v-5.25s-2.63-2-3.22-2.25c-.6-.25-3.05 1.25-3.48 1.33s-3.13-.25-3.13-.25l-2.54-5.42-3.48-3.33-2.37 1.08-3.05 3.25-1.02 4.75-2.29 4.59-2.13 1-.93 1.08-.85 2.83v7.67l-.67 1.17-.17 4.5.84 5.41-.76 2.34-1.69 4.16-3.56.67-3.48-4.25-3.9 1.83-.94 3.92-.76 4.92-1.53.08s-5.26 4.08-5.26 3.75-.93-3.75-.93-4.08-.51-1.67-.51-1.67-2.97-3.92-2.97-4.17 2.12-5.16 2.12-5.5-9.75-3.5-9.75-3.5v-2.5l-4.07-3.75s-3.64 1.59-4.32 1.67-2.63 1.92-2.63 1.92l-1.19 2.5-1.53 1.08-4.5 3.58-.42 1.84-5.52-1.09-2.29-3.16-1.61.75-3.31 2.66-4.83 1.5-.94-.16s-.84-1.92-1.02-2.59c-.17-.66-2.54-.25-2.54-.25l.08 3-.76 5-.51 1.84s1.78 3.08 2.13 3.25c.34.16.67.5.67.5l-.67 3.08-.68.33v6l-1.61 3.17-1.95-2.75-2.46 2.92v6.58l-5.17-.92.68 3.59.51 2.41-2.29-.83-4.67 1.67-422.78-58.11-18.84-163.26-3.61-53.41 78-23.67-8.11-96.11-31.61-4.44-.91-9.84 30.48-10.77-2.83-41.61-7.97-1.62.27-5.94 1277.64-384.57-.51-5.95 1.02-3.16 59.3-16.63 21.88 6.09 88.83-27.33 46 11.33.83-5.17 21.5-3.83-7.93 363.01-2.27 98.83-.37 1.42s-1.53 2.17-1.78 2.33" />
                 </svg>
             </div>
         </div>
@@ -802,8 +802,8 @@
             const mq = window.matchMedia('(max-width: 600px)');
 
             const desktopPositions = {
-                Tower_B: { left: 65, top: 53 },
-                Tower_A: { left: 44, top: 55 }
+                Tower_B: { left: 65, top: 50 },
+                Tower_A: { left: 44, top: 52 }
             };
             const mobilePositions = {
                 Tower_B: { left: 61, top: 50 },

diff --git a/SubPages/Tower_B.html b/SubPages/Tower_B.html
@@ -15,7 +15,7 @@
             }
         }
 
-      
+
         .call-btn {
             display: block;
             width: 100%;
@@ -96,15 +96,11 @@
                 alt="Tower_2" fetchpriority="high" decoding="async" width="3840" height="5830" class="blur-up" />
             <div class="Cutout">
                 <svg viewBox="0 0 3840 5830" xmlns="http://www.w3.org/2000/svg">
-                    <!-- <path id="Floor_A_33" data-link="./3BHK/Lobby_Top.html"
-                        d="M2532.11 2025.67 2406.33 2055l1.03 8.78-35.75 10-6.92-1.08-101.33 31-30.42 9.92-7.5-6.83-93.75 37.75-.33 16.42 11.86 8.58-2.33 8.22-8.22 3.33-.22 13.33 10 10.11 1 10.33-10.22 2 .89 17.44c23.77-10.79 58.27-22.15 95.67-33.67l8 7.44 30.56-8.89 102.22-24.89-.56-8.44 6.89 3.56 44.22-11.44-8.67-8 125.56-24.78 29 38.22 10.33-1.11 24.22 35.33-5.44 2.56 3 7 16 26.22v-13.78l-5.44-7.78-4.11.67-1.33-15.56 9.89-4.22.33-7.78-12.33-13.33-.44-9 7.89-2.56 1.33-4.33-1.67-1.89.89-11.89-8.17-8.39-4.5-1-5.17-7.17 3.67-4.17-7.5-12.5 1.83-2.33-23.5-36.17-8 1-22-30.33 2.5-3-7.17-12.25Z"
-                        class="st0" /> -->
                     <path id="Commercial" data-link="./1BHK/Lobby_Top.html" data-name="Floor_01"
-                        d="m2659.7 3022.01-10.64 232.63-60.84 112-3.33 5-5.83 3.33s-1.84-5.83-2-7c-.17-1.16 8.33-6 9-6.83.66-.83 3.33-9.67 3.33-9.67l-6.5.84-8.17 4.66s.84-3.5 1.34-9.66c.5-6.17-1.5-3.17-1.5-3.17s-5.5-6-6.17-7-6-.83-6-.83-2-7.67-2.17-9.17c-.16-1.5-4.83-7.67-4.83-7.67l-6.5 1.84-4.67 7.16v6.17l-1.83 2-2.5 3.67s-7.67 5.16-7.83 5.5c-.17.33 0 .83 0 .83v6c0 .83-4 5.17-4 5.17l-.84 2.83.84 4-5 .83s-3 4.84-.34 5.5c2.67.67 5.34 2.5 5.34 2.5s-5.84 1.5-8 1.67c-2.17.17-8.17 3.67-8.17 3.67l4.67 6s-3.5 4-4 4.66c-.5.67.66 6.5.66 6.5s5.34-.5 7-1.16c1.67-.67 4.5 5.33 4.5 5.33l-2.16 3.17-10 1 1.16 7-2.66 5.5-4.67 3.33-15.78 40.39s.67 1.66.67 2.5-2.59 3.08-4 4.25c-1.42 1.16-3.84 2-5.67 3.08s-6.25 4.67-8.08 6.5c-1.84 1.83-2.09 6.17-1.5 6.17s4.75-4.5 5.75-5.42 7.41.67 8 .67 1.08 5.66 1.16 6.41c.09.75-2.5 4.5-2.91 4.67-.42.17-5.42 1.83-8 2.17-2.59.33-4.84.08-5.42.08s-6.42-1.83-8.42-2.17c-2-.33-4.66 2.84-6 3-1.33.17-10.16-2.33-11.5-3.16-1.33-.84-6-4.17-6.75-5.42s.59-5.83.59-5.83 6.58-5.92 7.08-6.5c.5-.59 3.25-1.84 4.83-3.5 1.59-1.67 0-3.5 0-3.5s-3.16-3.17-4.75-4.59c-1.58-1.41-3.16-1.33-3.16-1.33s-5.5-3.58-5.75-4.75-1.25-2.33-1.09-4.42c.17-2.08 2.84-1 4.17-1.75s4.08-5 4.08-5.58-2.58-.33-9.5-2.67c-6.91-2.33-3.58-3.58-4.16-5.16-.59-1.59 0 0 4.75-3.09 4.75-3.08-.92-4.58-.92-5.66s1.58-2.34 1.58-2.34l-.58-6-6.08-2.91 2.75-1.75 2.41-3.42s-3.58-2.67-4.16-2.75c-.59-.08-7.34.17-7.34.17l-1.08-2.92 7.25-1.83s5.67-2.59 9-4.59 4.33-5.33 4.33-5.75-5.33-1.33-6.41-1.5c-1.09-.16-4.17.34-6.67.25-2.5-.08-3.25-1.5-3.25-1.5s-1.58-2.66-1.58-4 1.16-3.83 1.33-4.08 6.75-1.5 7.33-1.83c.59-.34 2.75-2.42 2.75-2.42s-1.33-2-1.66-3.5c-.34-1.5 9.16-5 9.16-5l-2.75-5.33s-4.58 5.16-4.58 4.91-5.25-3.58-5.25-3.58l-3.08 2s-3.84-2.42-3.92-2.83c-.08-.42 1-6.09 2.08-10 1.09-3.92 0-4.75 0-4.75s-2.83-1.84-4.25-2.75c-1.41-.92-3.83-1.25-3.83-1.25l-3.42-3.17-3.08 8.25-2.92-6s-2.16-.5-2.41-.33c-.25.16-1.5 3.25-2.34 3.75-.83.5-2.83-.17-3.33-.42s0-1.83 0-3.67.5-1.91.5-1.91 1.83-3.5 2.17-4.67c.33-1.17-1.17-2.33-1.42-2.67-.25-.33-.92-5-.92-5l-3.41-3.83s-2.5 1.67-3.75 1-3.25.83-4.59 1.08c-1.33.25-1.91 4.25-1.91 4.25l1.16 6.75-3.58 2.25s-2.17 1.67-2.75 1.84c-.58.16-.92 2.33-.92 2.33v1.92l-1.33 2.16s-1 1.09-1 1.84-.83 2-.83 2-.59-1.84-1.42-2.67-2.33-.83-3.25-.83-3.17 0-4.25.08-.5 2-.5 2.5-.92 3.42-.92 3.42l-1.08 1.91-1.75-.66s-.83 1.58-1.08 1.91c-.25.34-2.17.84-2.42.84s-1.58 2-1.58 2l2.44 5.5-.44 5.78s-2.22.44-3.78.44-5.56-.44-8.22-.44-3.34 6.22-3.34 6.22l4.23 5.33h1.55c1.56 0 2.67.22 7.78.45 5.11.22 5.33.66 5.33.66s-2.22 5.78-3.11 5.78h-6.44c-1.78 0-7.34 2-7.34 2l.23 3.33s2 6.23 1.33 7.56-5.56.67-5.56.67l-7.55 7.55s3.78 1.56 6 1.33c2.22-.22 11.11 5.56 11.11 5.56l-1.33 6s-2.23.89-3.34 1.33c-1.11.45-9.11 6.23-9.55 6.89-.45.67-2 6.22-2 6.22l-9.78 4.23s4 2.66 7.11 2.66.89 3.11.89 3.11l-8.22-.44-3.34 8.44 4.23 1.12 2 4.22-7.78 7.55 3.11 6.89 6.89 2.45-5.78 7.77-212.55-35.38 11.77-7.17-23-3.89-1.25 3.25-3.41.33-1-5.83-21.42-2.42v-3.83l-59-8.83v2.16l-24.67-2.33.59-4.33-58.84-8.34v2.34h-3.58v-1.59l-20.5-2.66-.75 3h-6.08v-3.75s-20.5-2.17-21.42-2.17-5.42 6.75-5.42 6.75l-9.75-1.33-1 1.33-98.5-16.67-25.33-6.33-1.5-6.67-11.67-5.5-7.83-.33-6.5 4s-11.44-.61-11.44-1.06v-1.11c0-.44.44-3.11.44-3.11l-.11-1.55s.22-3.23.44-3.67c.23-.44 2-.11 2.78-.11s4.78.67 4.78.67 2.55.11 3.44 0c.89-.12 1.23-.45 2-1.56.78-1.11.23-1 .23-2s0-1.44-.23-2.33c-.22-.89-.22-.45-.89-1.78-.66-1.33-1-1.67-1.22-2.22-.22-.56-1.22-1.11-1.89-2.23-.66-1.11-2.89-2.11-5.11-3.33-.66-.37-.93-.51-.99-.55.07.02.87.43.66.22-.33-.34-.78-1.22-1.33-2.78-.56-1.56-.89-2.22-.89-2.22s2.22-4.67 3.11-6c.89-1.34.78-1.89.78-1.89s-3.23-.45-4.56-.33c-1.33.11-1.89.11-3.22-1.12-1.34-1.22-1-1-1.56-3.22-.55-2.22.78-3.11.78-3.11s1.22-2.55 1.67-3.11c.44-.56 4.89-.67 5.44-.67s3.67 1.11 5.22 1.11 3.78-1.22 3.78-1.22l1.56-3s1.33-2.89 2.33-4.89.78-2.22 1.22-2.89c.45-.66 2.34-3.22 2.34-3.22l1.55-4.22-3.55.56-4.89.22-3.45.44-3.11 1.11-3.33-3-10.22-3.11 7.66-6.11 1.22-6-2.44-8-13.33 1.11s.22-1.89.33-4.33c.11-2.45.78-6.78.78-6.78l2.33-4.89-8.33.89s.66-3.67.89-5.22c.22-1.56 2.55-1.78 5.11-2.56 2.55-.77 2.89-1.66 3.11-2.44s.22-4.33.22-5.56-2.67-.33-3.33-.11c-.67.22-6 7.34-8 7.67s-1-1.89-1-2.89 3-3.22 3-3.22-3-9.45-3.45-9.67c-.44-.22-2.33 1.45-2.33 1.45l-4.56.77s-7.55-1.44-8.22-2.22c-.66-.78.11-.78.11-.78s4.11-2.11 5.11-2.77c1-.67.45-2.34.45-2.34s-.22-3.55-1.11-3.78c-.89-.22-2.11.89-3.56 1-1.44.12-1.33 0-3.89-.11-2.55-.11-1-1.77-.55-3.66.44-1.89.33-1.56 3.78-4.67 3.44-3.11.55-3.44.55-3.44s-1.11-.78-1.67-1.34c-.55-.55-2.33-2.11-4.11-3.44-1.77-1.34-2.11.11-3.44.33s-4.11 5.78-4.89 7.33c-.78 1.56-1.44 5.23-1.44 5.23s-2.23 2.77-2.67 2.77H1645c-.67 0-6 3.23-6 3.23l.33 2.66.67 4.23-.78 4.11-1.33-.11-5.22 2.22s-4.34 4.11-4.45 4.55c-.11.45.78 3.11.78 3.11h2.67c.55 0 .55 1.89.55 1.89l-.22 5.56-.78 3.67-4 5.22 1 5.11-3.33 10s-2.67-1.45-4.11-1.78c-1.45-.33-2.89 1.67-2.89 1.67s-2.33 8.89-2.33 10.33 1 8.11 1 8.11 4.55 6.56 4.77 6.89c.23.33 7.67 7.89 7.67 7.89l-3.33 5.67-10.89-4.23-8.56-5.88-6 .66 4.11 4.45 2 4.44-4.11 1.22 4 6.45-2.66 3.66s-2.12 8.89-2.12 9.23 11.78 4.66 11.78 4.66l29.34 1.89.77 3.11-10.77 3.67-12.78-.67h-10l-32.78-7.89-5.24-228.88 6.57-6.09 80.61 11.95 4.23-4.84 14.5.89v6.34l93.97 14.08 12.67-12.39 7.22.67V3156l89.66 12.39-1.22 8.72h22.17l.67 6 197.83 27.83 4.67-3.33 22.16 2 16.67-11v8.17l98.5 14.83 8.5-10.5 15 .33-3.5 4.67v8.83l118.83 17.17 7.84-13h16.83l-4.83 6-.34 10 108.84 15.67 8-11.67 14.66 1.17z" />
+                        d="m2666.72 2889.93-10.02 234.11-70.82 113.93-3.33 5-5.83 3.33s-1.84-5.83-2-7c-.17-1.16 8.33-6 9-6.83.66-.83 3.33-9.67 3.33-9.67l-6.5.84-8.17 4.66s.84-3.5 1.34-9.66c.5-6.17-1.5-3.17-1.5-3.17s-5.5-6-6.17-7-6-.83-6-.83-2-7.67-2.17-9.17c-.16-1.5-4.83-7.67-4.83-7.67l-6.5 1.84-4.67 7.16v6.17l-1.83 2-2.5 3.67s-7.67 5.16-7.83 5.5c-.17.33 0 .83 0 .83v6c0 .83-4 5.17-4 5.17l-.84 2.83.84 4-5 .83s-3 4.84-.34 5.5c2.67.67 5.34 2.5 5.34 2.5s-5.84 1.5-8 1.67c-2.17.17-8.17 3.67-8.17 3.67l4.67 6s-3.5 4-4 4.66c-.5.67.66 6.5.66 6.5s5.34-.5 7-1.16c1.67-.67 4.5 5.33 4.5 5.33l-2.16 3.17-10 1 1.16 7-2.66 5.5-4.67 3.33-15.78 40.39s.67 1.66.67 2.5-2.59 3.08-4 4.25c-1.42 1.16-3.84 2-5.67 3.08s-6.25 4.67-8.08 6.5c-1.84 1.83-2.09 6.17-1.5 6.17s4.75-4.5 5.75-5.42 7.41.67 8 .67 1.08 5.66 1.16 6.41c.09.75-2.5 4.5-2.91 4.67-.42.17-5.42 1.83-8 2.17-2.59.33-4.84.08-5.42.08s-6.42-1.83-8.42-2.17c-2-.33-4.66 2.84-6 3-1.33.17-10.16-2.33-11.5-3.16-1.33-.84-6-4.17-6.75-5.42s.59-5.83.59-5.83 6.58-5.92 7.08-6.5c.5-.59 3.25-1.84 4.83-3.5 1.59-1.67 0-3.5 0-3.5s-3.16-3.17-4.75-4.59c-1.58-1.41-3.16-1.33-3.16-1.33s-5.5-3.58-5.75-4.75-1.25-2.33-1.09-4.42c.17-2.08 2.84-1 4.17-1.75s4.08-5 4.08-5.58-2.58-.33-9.5-2.67c-6.91-2.33-3.58-3.58-4.16-5.16-.59-1.59 0 0 4.75-3.09 4.75-3.08-.92-4.58-.92-5.66s1.58-2.34 1.58-2.34l-.58-6-6.08-2.91 2.75-1.75 2.41-3.42s-3.58-2.67-4.16-2.75c-.59-.08-7.34.17-7.34.17l-1.08-2.92 7.25-1.83s5.67-2.59 9-4.59 4.33-5.33 4.33-5.75-5.33-1.33-6.41-1.5c-1.09-.16-4.17.34-6.67.25-2.5-.08-3.25-1.5-3.25-1.5s-1.58-2.66-1.58-4 1.16-3.83 1.33-4.08 6.75-1.5 7.33-1.83c.59-.34 2.75-2.42 2.75-2.42s-1.33-2-1.66-3.5c-.34-1.5 9.16-5 9.16-5l-2.75-5.33s-4.58 5.16-4.58 4.91-5.25-3.58-5.25-3.58l-3.08 2s-3.84-2.42-3.92-2.83c-.08-.42 1-6.09 2.08-10 1.09-3.92 0-4.75 0-4.75s-2.83-1.84-4.25-2.75c-1.41-.92-3.83-1.25-3.83-1.25l-3.42-3.17-3.08 8.25-2.92-6s-2.16-.5-2.41-.33c-.25.16-1.5 3.25-2.34 3.75-.83.5-2.83-.17-3.33-.42s0-1.83 0-3.67.5-1.91.5-1.91 1.83-3.5 2.17-4.67c.33-1.17-1.17-2.33-1.42-2.67-.25-.33-.92-5-.92-5l-3.41-3.83s-2.5 1.67-3.75 1-3.25.83-4.59 1.08c-1.33.25-1.91 4.25-1.91 4.25l1.16 6.75-3.58 2.25s-2.17 1.67-2.75 1.84c-.58.16-.92 2.33-.92 2.33v1.92l-1.33 2.16s-1 1.09-1 1.84-.83 2-.83 2-.59-1.84-1.42-2.67-2.33-.83-3.25-.83-3.17 0-4.25.08-.5 2-.5 2.5-.92 3.42-.92 3.42l-1.08 1.91-1.75-.66s-.83 1.58-1.08 1.91c-.25.34-2.17.84-2.42.84s-1.58 2-1.58 2l2.44 5.5-.44 5.78s-2.22.44-3.78.44-5.56-.44-8.22-.44-3.34 6.22-3.34 6.22l4.23 5.33h1.55c1.56 0 2.67.22 7.78.45 5.11.22 5.33.66 5.33.66s-2.22 5.78-3.11 5.78h-6.44c-1.78 0-7.34 2-7.34 2l.23 3.33s2 6.23 1.33 7.56-5.56.67-5.56.67l-7.55 7.55s3.78 1.56 6 1.33c2.22-.22 11.11 5.56 11.11 5.56l-1.33 6s-2.23.89-3.34 1.33c-1.11.45-9.11 6.23-9.55 6.89-.45.67-2 6.22-2 6.22l-9.78 4.23s4 2.66 7.11 2.66.89 3.11.89 3.11l-8.22-.44-3.34 8.44 4.23 1.12 2 4.22-7.78 7.55 8.92 8.72-213.69-32.43 11.77-7.17-23-3.89-1.25 3.25-3.41.33-1-5.83-21.42-2.42v-3.83l-58.81-8.27v2.16l-24.67-2.33.59-4.33-59.09-7.57v2.34h-3.58v-1.59l-20.95-2.3-.75 3h-6.08V3275s-20.5-2.17-21.42-2.17-5.42 6.75-5.42 6.75l-9.75-1.33-1 1.33-101.56-12.92-25.33-6.33-1.5-6.67-11.67-5.5-7.83-.33-6.5 4s-11.44-.61-11.44-1.06v-1.11c0-.44.44-3.11.44-3.11l-.11-1.55s.22-3.23.44-3.67c.23-.44 2-.11 2.78-.11s4.78.67 4.78.67 2.55.11 3.44 0c.89-.12 1.23-.45 2-1.56.78-1.11.23-1 .23-2s0-1.44-.23-2.33c-.22-.89-.22-.45-.89-1.78-.66-1.33-1-1.67-1.22-2.22-.22-.56-1.22-1.11-1.89-2.23-.66-1.11-2.89-2.11-5.11-3.33-.66-.37-.93-.51-.99-.55.07.02.87.43.66.22-.33-.34-.78-1.22-1.33-2.78-.56-1.56-.89-2.22-.89-2.22s2.22-4.67 3.11-6c.89-1.34.78-1.89.78-1.89s-3.23-.45-4.56-.33c-1.33.11-1.89.11-3.22-1.12-1.34-1.22-1-1-1.56-3.22-.55-2.22.78-3.11.78-3.11s1.22-2.55 1.67-3.11c.44-.56 4.89-.67 5.44-.67s3.67 1.11 5.22 1.11 3.78-1.22 3.78-1.22l1.56-3s1.33-2.89 2.33-4.89.78-2.22 1.22-2.89c.45-.66 2.34-3.22 2.34-3.22l1.55-4.22-3.55.56-4.89.22-3.45.44-3.11 1.11-3.33-3-10.22-3.11 7.66-6.11 1.22-6-2.44-8-13.33 1.11s.22-1.89.33-4.33c.11-2.45.78-6.78.78-6.78l2.33-4.89-8.33.89s.66-3.67.89-5.22c.22-1.56 2.55-1.78 5.11-2.56 2.55-.77 2.89-1.66 3.11-2.44s.22-4.33.22-5.56-2.67-.33-3.33-.11c-.67.22-6 7.34-8 7.67s-1-1.89-1-2.89 3-3.22 3-3.22-3-9.45-3.45-9.67c-.44-.22-2.33 1.45-2.33 1.45l-4.56.77s-7.55-1.44-8.22-2.22c-.66-.78.11-.78.11-.78s4.11-2.11 5.11-2.77c1-.67.45-2.34.45-2.34s-.22-3.55-1.11-3.78c-.89-.22-2.11.89-3.56 1-1.44.12-1.33 0-3.89-.11-2.55-.11-1-1.77-.55-3.66.44-1.89.33-1.56 3.78-4.67 3.44-3.11.55-3.44.55-3.44s-1.11-.78-1.67-1.34-2.33-2.11-4.11-3.44c-1.77-1.34-2.11.11-3.44.33s-4.11 5.78-4.89 7.33c-.78 1.56-1.44 5.23-1.44 5.23s-2.23 2.77-2.67 2.77h-3.89c-.67 0-6 3.23-6 3.23l.33 2.66.67 4.23-.78 4.11-1.33-.11-5.22 2.22s-4.34 4.11-4.45 4.55c-.11.45.78 3.11.78 3.11h2.67c.55 0 .55 1.89.55 1.89l-.22 5.56-.78 3.67-4 5.22 1 5.11-3.33 10s-2.67-1.45-4.11-1.78c-1.45-.33-2.89 1.67-2.89 1.67s-2.33 8.89-2.33 10.33 1 8.11 1 8.11 4.55 6.56 4.77 6.89c.23.33 7.67 7.89 7.67 7.89l-3.33 5.67-10.89-4.23-8.56-5.88-6 .66 4.11 4.45 2 4.44-4.11 1.22 4 6.45-2.66 3.66s-2.12 8.89-2.12 9.23 11.78 4.66 11.78 4.66l29.34 1.89.77 3.11-10.77 3.67-12.78-.67h-10l-32.78-7.89-3.89-239.85 6.57-6.09 78.59 14.92 4.23-4.84 14.5.89v6.34l96.78 13.39 12.67-12.39 7.22.67v14.83l89.66 10.45-1.22 8.72 23 .67.67 6 203.11 27.22 4.67-3.33 22.16 2 16.67-11v8.17l98.5 14.83 8.5-10.5 15 .33-3.5 4.67v8.83l118.83 17.17 7.84-13h16.83l-4.83 6-.34 10 108.84 15.67 8-11.67 14.66 1.17 128.34-221.1Z" />
                     <path id="Apparments" data-link="./1BHK/Lobby_Top.html" data-name="Floor_02"
-                        d="m2660.06 3014.08-.36 7.94-127.23 228.26-14.66-1.17-8 11.67-108.84-15.67.34-10 4.83-6h-16.83l-7.84 13-118.83-17.17v-8.83l3.5-4.67-15-.33-8.5 10.5-98.5-14.83v-8.17l-16.67 11-22.16-2-4.67 3.33-197.83-27.83-.67-6h-22.17l1.22-8.72-89.66-12.39v-14.83l-7.22-.67-12.67 12.39-93.97-14.08v-6.34l-14.5-.89-4.23 4.84-80.61-11.95-6.57 6.09-3.65-159.12 9.33-6.22v-10.66l-16.88-15.56v-64l-10.23-7.56-15.11 13.78-124.89-123.11V2699l-5.77-11.56 1252.27 152.31.23 6.78-5.56 7.11-1.44 41.55 5.88-.22-.11 10.67-6.22 8.67-4.21 75.74 8.21-.19-2 25.78 3.11-2z" />
+                        d="m2667.08 2882-.36 7.94-128.34 221.09-14.66-1.17-8 11.67-108.84-15.67.34-10 4.83-6h-16.83l-7.84 13-118.83-17.17v-8.83l3.5-4.67-15-.33-8.5 10.5-98.5-14.83v-8.17l-16.67 11-22.16-2-4.67 3.33-203.11-27.22-.67-6-23-.67 1.22-8.72-89.66-10.45v-14.83l-7.22-.67-12.67 12.39-96.78-13.39v-6.34l-14.5-.89-4.23 4.84-78.59-14.92-6.57 6.09-6.32-156.75 9.33-6.22v-10.66l-16.88-15.56-.77-64.11-10.23-7.56-15.11 13.78-122.8-114.4v-59.11l-5.77-11.56 1262.44 145.79.23 6.78-5.56 7.11-1.44 41.55 5.88-.22-.11 10.67-6.22 8.67-4.21 75.74 8.21-.19-2.81 28.89 3.11-2 5.34.44Z" />
                 </svg>
-
             </div>
         </div>
     </div>
@@ -174,15 +170,15 @@
 
 
 
-<script>
-window.addEventListener('DOMContentLoaded', () => {
-    const detailsBox = document.getElementById('details');
+    <script>
+        window.addEventListener('DOMContentLoaded', () => {
+            const detailsBox = document.getElementById('details');
 
-    detailsBox.innerHTML = `
+            detailsBox.innerHTML = `
         <div><span>1BHK</span><span>: 48</span></div>
     `;
-});
-</script>
+        });
+    </script>
 
 
 
